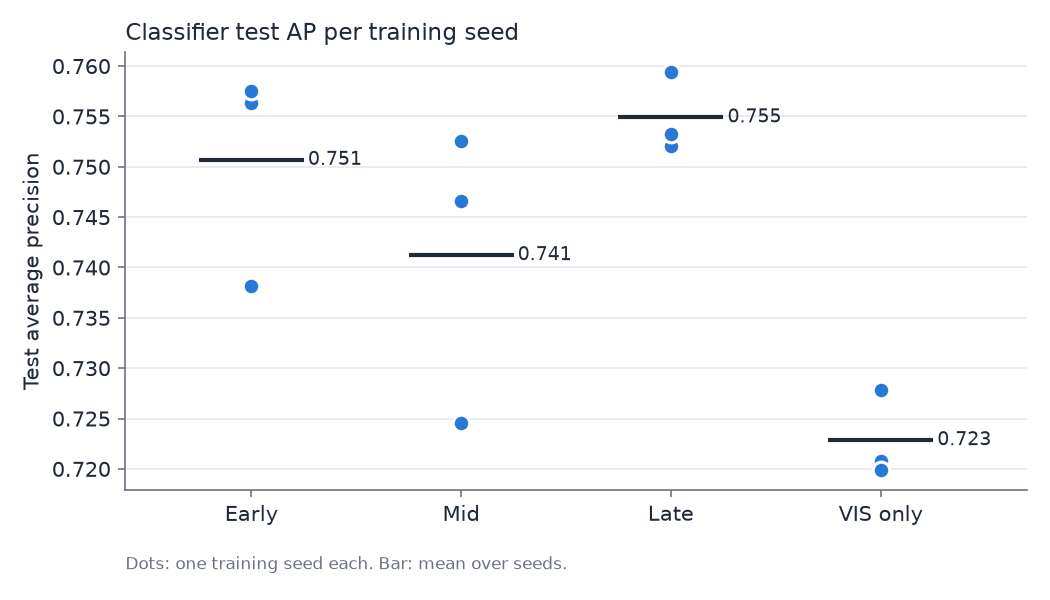
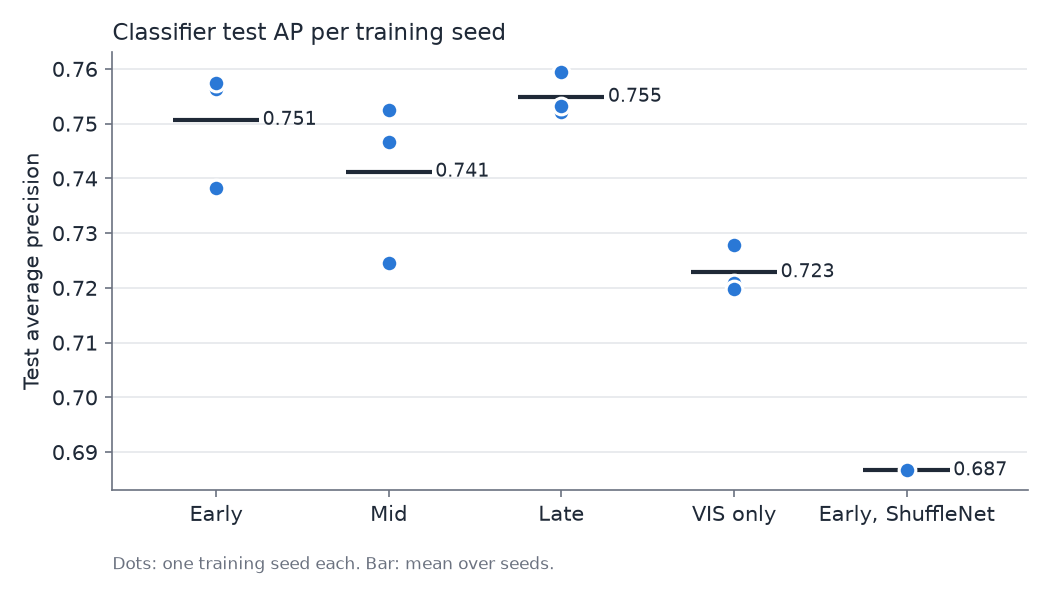
Add the ShuffleNet V2 fused-classifier result
The flight classifier architecture trained on the 4-band fused input
reaches test AP 0.687; early stopping kept the epoch-1 checkpoint.

diff --git a/experiments/vis_swir/README.md b/experiments/vis_swir/README.md
@@ -88,12 +88,19 @@ Test average precision (AP). `results/seed_ap.png` shows each seed.
 | VIS only | 0.728 | 0.721 | 0.720 | 0.723 |
 | SWIR only | 0.652 | - | - | - |
 | Mid, dropout | 0.725 | - | - | - |
+| Early, ShuffleNet V2 x0.5 | 0.687 | - | - | - |
 
 The late-fusion weight is `w = 0.5` for all three VIS seeds
 (`results/late/vis_classifier*.json` holds the validation AP for each `w`).
 The seed spread of one option (up to 0.028 AP) is as large as the difference
 between Early, Mid, and Late. Early and Late are better than VIS only on all
 three seeds. Mid seed 0 is 0.003 AP below VIS seed 0.
+
+`train_fused_shufflenet_classifier.toml` trains the flight classifier
+architecture (ImageNet ShuffleNet V2 x0.5, AdamW) on the 4-band input. The
+4-band stem trains and runs. Validation AP was highest at epoch 1 (0.664), and
+early stopping ended the run at epoch 5. The test AP is 0.070 below the
+Early pactnet seed 0 and 0.041 below VIS-only seed 0.
 
 ### Segmentor
 
@@ -135,3 +142,4 @@ largest bin, 39 x 40 px. The count is a lower bound, not a latency.
 | Mid | 1.98 | 6.39 | 44689 |
 | Late (VIS + SWIR) | 2.91 | 9.37 | 84578 |
 | VIS only | 1.57 | 4.92 | 42433 |
+| Early, ShuffleNet V2 x0.5 | 4.30 | - | 343033 |
